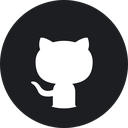
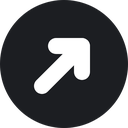
feat: 新增工具栏入口，扩展图标改为原创图形
上架后面向普通用户，选项页只能从扩展管理页进入，可发现性太差。新增
action 弹窗 popup.html / popup.js，里面一个按钮调用
chrome.runtime.openOptionsPage()，不需要额外权限。

图标原来直接用 GitHub 官方 Octocat 标志，扩展名也含 GitHub，属于商店
「冒名与知识产权」政策下的驳回 / 下架风险。改为原创的跳跃箭头图形，
icons/icon.svg 与 content.js 中的悬浮球图标保持同一套视觉。

Changed region(s): [[0.2188, 0.2812, 0.6875, 0.875], [0.6875, 0.3125, 0.75, 0.5938]]

diff --git a/popup.html b/popup.html
@@ -1,0 +1,63 @@
+<!doctype html>
+<html lang="zh-CN">
+<head>
+<meta charset="utf-8">
+<title>GitHub Quick Jump</title>
+<style>
+  :root {
+    color-scheme: light dark;
+    --bg: #ffffff;
+    --text: #1f2328;
+    --muted: #656d76;
+    --border: #d1d9e0;
+    --accent: #0969da;
+  }
+  @media (prefers-color-scheme: dark) {
+    :root {
+      --bg: #161b22;
+      --text: #e6edf3;
+      --muted: #8b949e;
+      --border: #30363d;
+      --accent: #4493f8;
+    }
+  }
+  * { box-sizing: border-box; }
+  body {
+    width: 288px;
+    margin: 0;
+    padding: 16px;
+    background: var(--bg);
+    color: var(--text);
+    font: 13px/1.6 -apple-system, BlinkMacSystemFont, "Segoe UI", "PingFang SC", "Microsoft YaHei", sans-serif;
+  }
+  h1 { margin: 0 0 8px; font-size: 15px; }
+  p { margin: 0 0 12px; color: var(--muted); }
+  code {
+    padding: 1px 4px;
+    border-radius: 4px;
+    background: color-mix(in srgb, var(--border) 45%, transparent);
+    font-family: ui-monospace, SFMono-Regular, Menlo, Consolas, monospace;
+    font-size: 11px;
+  }
+  button {
+    width: 100%;
+    padding: 8px 12px;
+    border: 1px solid var(--accent);
+    border-radius: 6px;
+    background: var(--accent);
+    color: #ffffff;
+    font: inherit;
+    font-weight: 600;
+    cursor: pointer;
+  }
+  button:hover { filter: brightness(1.08); }
+</style>
+</head>
+<body>
+  <h1>GitHub Quick Jump</h1>
+  <p>打开任意 GitHub 仓库页，右上角的悬浮球可以一键跳到 GitDiagram、DeepWiki、Gitingest、GitHub1s、GitHub.dev、StackBlitz，也能一键跳回 GitHub。</p>
+  <button type="button" id="open-options">管理自定义地址</button>
+  <p style="margin: 12px 0 0;">地址模板支持 <code>{owner}</code> 与 <code>{repo}</code> 占位符。</p>
+  <script src="popup.js"></script>
+</body>
+</html>

diff --git a/popup.js b/popup.js
@@ -1,0 +1,6 @@
+'use strict';
+
+document.getElementById('open-options').addEventListener('click', () => {
+  chrome.runtime.openOptionsPage();
+  window.close();
+});
